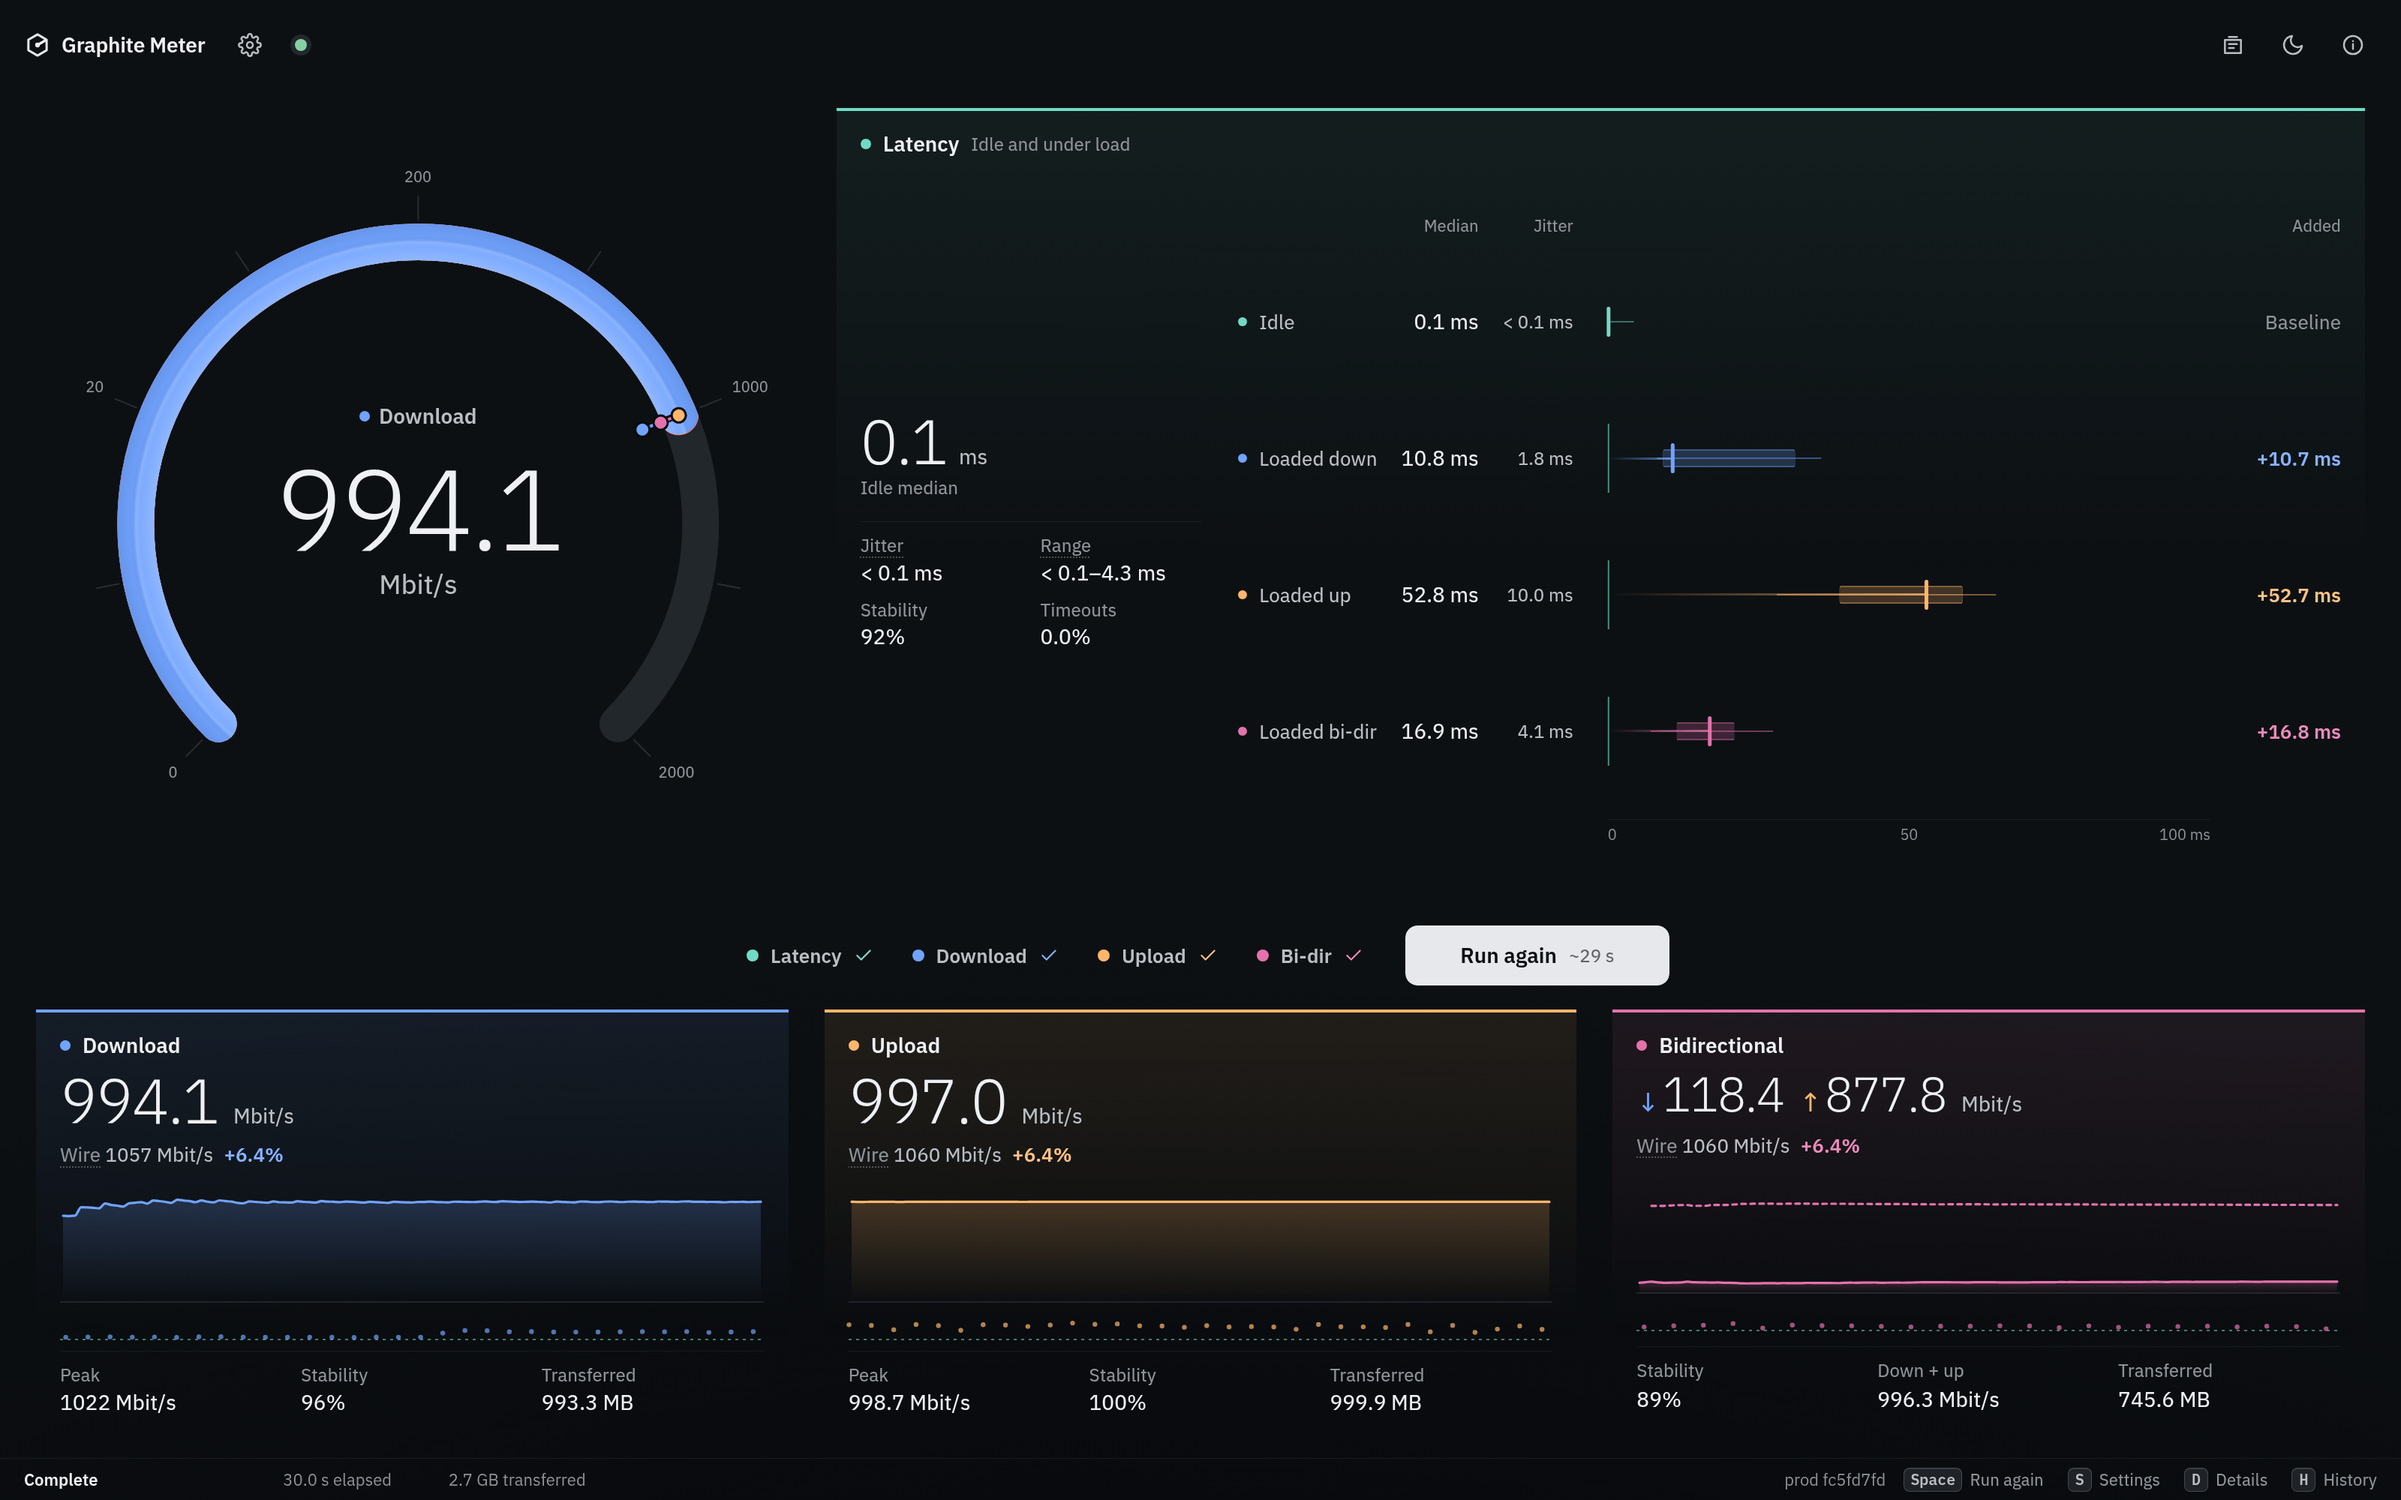
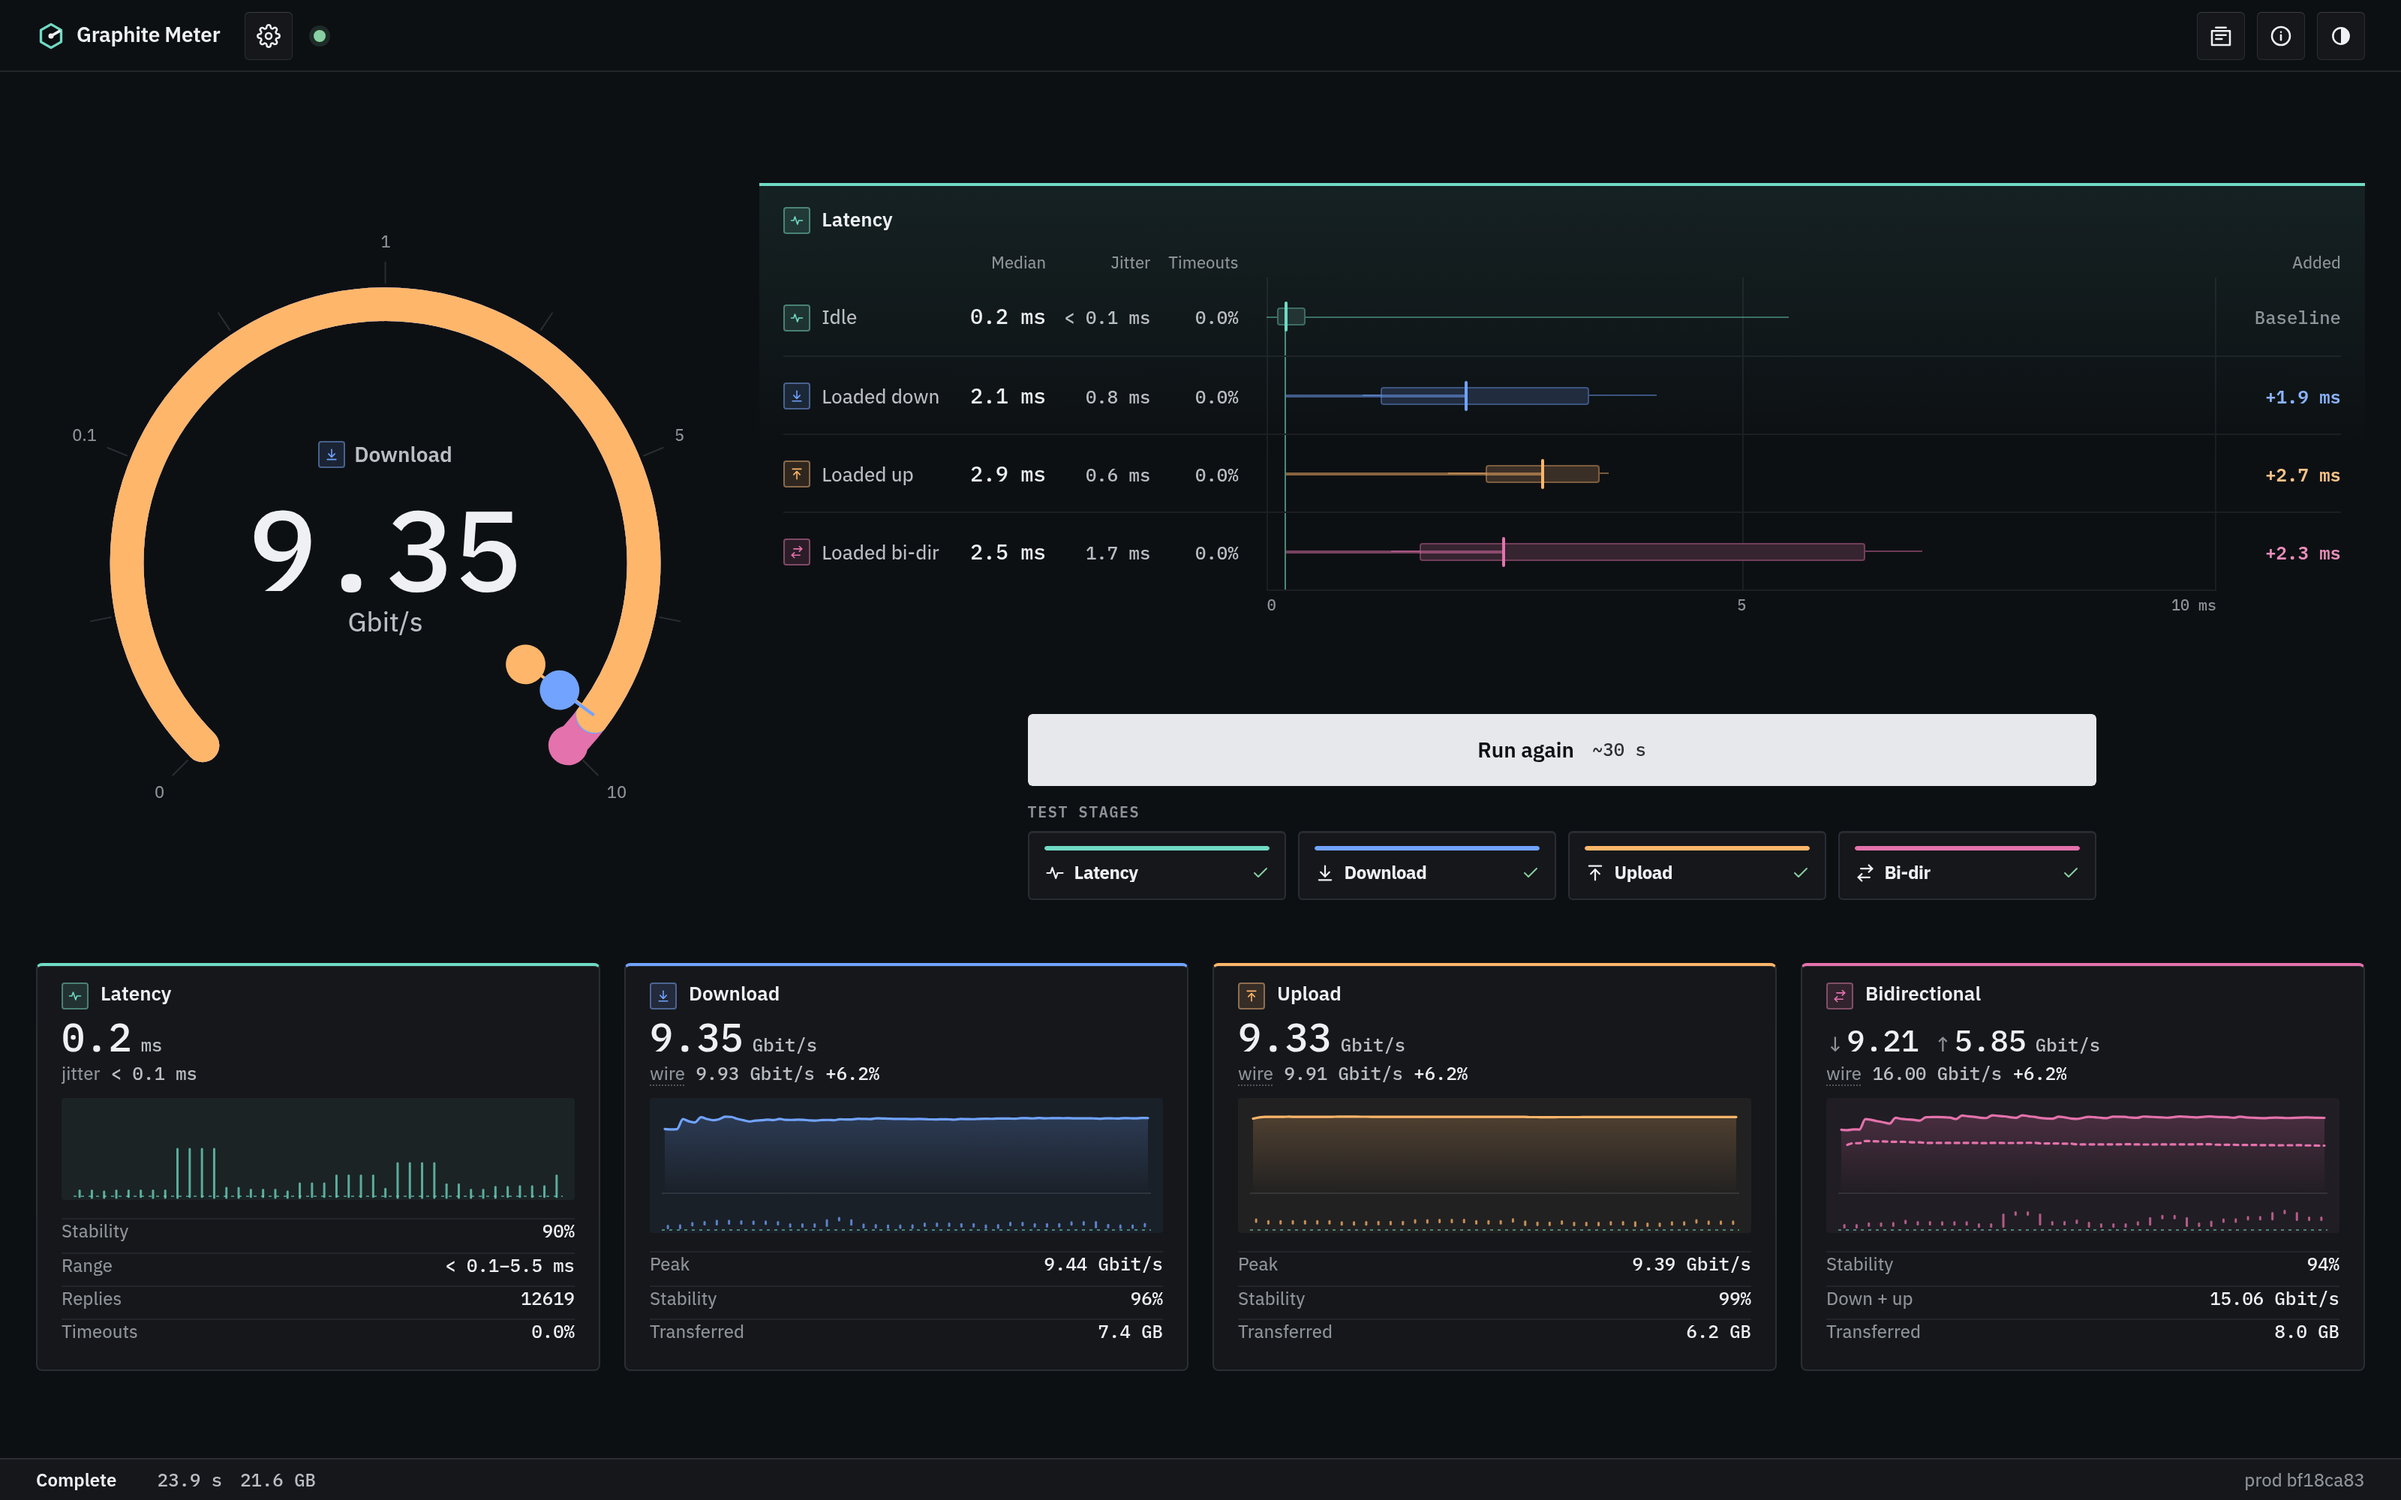
Show the redesigned console on a 10 GbE LAN in the README and gallery
The README and the screenshot gallery still showed the previous design,
with loopback figures of several Gbit/s and 0.4 ms latency that read as
a lab rather than a network. Every capture is retaken on the new console
as a real run through a link shaper: a wired 10 GbE LAN for the desktop
(about 9.4 Gbit/s each way, 0.2 ms idle, a couple of milliseconds added
under load), a Wi-Fi path for the phone, and three LAN servers for the
multi-server and Partial captures. The hero sets the completed desktop
result beside a phone measuring upload over Wi-Fi, side by side so the
phone hides no figure. The README describes the new console, and the
gallery states how its captures were made.

diff --git a/docs/SCREENSHOTS.md b/docs/SCREENSHOTS.md
@@ -2,15 +2,17 @@
 
 [Project overview](../README.md) · [Quick deployment](DEPLOYMENT.md#fast-local-deployment) · [What the numbers mean](MEASUREMENTS.md)
 
-Every capture is a real run against local servers over loopback held to 1 Gbit/s, so the rates show that limit on
-one machine, not a network or a benchmark.
+Every capture is a real run. The servers are local, each behind a link shaper that models a wired 10 GbE LAN
+(the phone reaches its server over a slower path that models Wi-Fi), so the figures are what the meter measured
+over those links, not a benchmark of a network. Bidirectional upload is held back by the capturing machine's CPU.
 
 ## The completed test
 
-Throughput and responsiveness share the screen: the dial, the latency card with idle and loaded box plots and what
-each load added, and one card per stage whose graph keeps the ramp-up and the latency under load.
+The dial carries the run's headline and every stage's result on one ring; the latency lanes set idle and loaded
+latency side by side with what each load added; one card per stage, under its key, keeps the stage's graph with
+the latency its load caused underneath.
 
-<img src="assets/desktop.png" alt="Completed desktop test with the dial, the latency card and download, upload and bidirectional cards" width="1080">
+<img src="assets/desktop.png" alt="Completed 10 GbE test: 9.35 Gbit/s down, 9.33 Gbit/s up, 0.2 ms idle latency, the latency lanes and one card per stage" width="1080">
 
 <img src="assets/light.png" alt="The same completed test in the light theme" width="1080">
 
@@ -20,7 +22,7 @@ Settings choose servers, connection paths, stage timings and display options. De
 the paths a run used, separating what the browser observed from what reached the server. On a wide desktop both dock
 beside the meter.
 
-<img src="assets/settings.png" alt="Settings docked beside the completed test, with the server checklist and connection paths" width="1080">
+<img src="assets/settings.png" alt="Settings docked beside the completed test, with connection paths and stage timings" width="1080">
 
 <img src="assets/endpoint.png" alt="Details beside the completed test: the tested server, the paths used and the protocol evidence from browser and server" width="1080">
 
@@ -29,12 +31,12 @@ beside the meter.
 ## Several servers
 
 Up to four servers share one run and each is probed for latency. One selector over the dial shows all servers or
-one; the stage cards, the latency card and Details follow it, and the latency card names its server. A server that
+one; the stage cards, the latency lanes and Details follow it, and the lanes name their server. A server that
 leaves marks its stage **Partial**, and the card names the reason.
 
-<img src="assets/multi-server.png" alt="A three-server run with the server selector and the latency card naming its server" width="1080">
+<img src="assets/multi-server.png" alt="Three servers on one LAN sharing a run, with the server selector over the dial" width="1080">
 
-<img src="assets/partial.png" alt="A three-server run where one server stopped delivering data during download, marked Partial" width="1080">
+<img src="assets/partial.png" alt="A three-server run where one server's connection was lost during download, marked Partial with the reason on the card" width="1080">
 
 ## History on your device
 
@@ -46,7 +48,7 @@ the live meter's stage and latency cards, its server selector and the evidence s
 ## Phone
 
 <p align="center">
-<img src="assets/mobile.png" alt="Phone view of the completed test" width="320">
+<img src="assets/mobile.png" alt="Phone view of a completed test over Wi-Fi" width="320">
 <img src="assets/mobile-history.png" alt="Phone view of a saved result" width="320">
 </p>
 
@@ -56,6 +58,9 @@ The TUI runs the same measurement against the same servers and ends with the res
 
 <img src="assets/tui.png" alt="Native terminal client after a complete latency, download and upload run" width="1080">
 
-Browser captures: production build, Chrome for Testing 151, 1600 × 1000 (workspace 1920 × 1080) and 430 × 932 at
-2× density, stages latency 4 s, download and upload 8 s, bidirectional 6 s. The terminal capture is the TUI's own
-120 × 40 screen rendered as text. To measure your own network, follow [deployment and configuration](DEPLOYMENT.md).
+Browser captures: production build, Chrome 154, 1600 × 1000 (workspace 1920 × 1080) and 430 × 932 at 2× density,
+stages latency 4 s, download and upload 8 s, bidirectional 6 s, a 1 s warmup, dial maximum 10 Gbit/s on desktop.
+Links: the desktop's path carries about 9.4 Gbit/s each way with 0.1 ms of one-way delay and a millisecond or two
+of queue; the phone's carries 1.65 Gbit/s down and 1.25 Gbit/s up with 1.5 ms of delay; the three servers of the
+multi-server run each have their own path, and together they fill a 10 GbE link. The terminal capture is the TUI's own 120 × 40 screen rendered as text.
+To measure your own network, follow [deployment and configuration](DEPLOYMENT.md).

diff --git a/README.md b/README.md
@@ -2,18 +2,18 @@
 
 # Graphite Meter
 
-**Self-hosted network testing for browsers and terminals.**
+**Self-hosted network testing for fast local networks, from any browser or terminal.**
 
-Measure download, upload, and latency before and during transfers.\
+Measure download, upload, and latency before and during transfers, up to multi-gigabit links.\
 One Go server, a responsive web interface, and a native terminal client.
 
 [![CI](https://github.com/zR-JB/graphite-meter/actions/workflows/ci.yml/badge.svg)](https://github.com/zR-JB/graphite-meter/actions/workflows/ci.yml) [![Release](https://img.shields.io/github/v/release/zR-JB/graphite-meter?sort=semver)](https://github.com/zR-JB/graphite-meter/releases) [![Container](https://img.shields.io/badge/container-ghcr.io%2Fzr--jb%2Fgraphite--meter-387d91)](https://github.com/zR-JB/graphite-meter/pkgs/container/graphite-meter) [![License](https://img.shields.io/badge/license-AGPL--3.0-blue)](LICENSE)
 
 [Quick start](#quick-start) · [Measurements](#what-you-can-measure) · [Browser](#browser-client) · [Terminal](#native-terminal-client) · [Documentation](#documentation)
 
-<img src="docs/assets/hero.png" alt="Graphite Meter completed results on desktop with an overlapping phone companion" width="1080">
+<img src="docs/assets/hero.png" alt="A completed 10 GbE test on desktop, 9.35 Gbit/s down and 9.33 Gbit/s up with 0.2 ms idle latency, beside a phone measuring upload over Wi-Fi" width="1080">
 
-<sub>Real runs against local servers · <a href="docs/SCREENSHOTS.md">screenshot gallery</a></sub>
+<sub>Real runs over a shaped 10 GbE LAN and a Wi-Fi path · <a href="docs/SCREENSHOTS.md">screenshot gallery</a></sub>
 
 </div>
 
@@ -56,17 +56,20 @@ for controlled performance testing.
 
 ## Browser client
 
-Run a test from a phone or desktop without installing a client. The dial, the latency card and one card
-per stage keep transfer speed and responsiveness visible together: each stage card graphs its rate with the
-latency its load added underneath.
+Run a test from a phone or desktop without installing a client. The dial carries the live rate and, once
+the run completes, every stage's result on one ring. Beside it, the latency lanes set idle and loaded latency
+side by side as box plots with what each load added. Under the run key, one card per stage keeps its graph,
+peak, stability and the latency its load caused, so transfer speed and responsiveness stay visible together.
+The run reads as one sequence: each stage's needle rises from zero, drains back as the next begins, and the
+result replays on the dial when the run ends.
 
-- **Flexible tests:** stage switches beside Start, duration presets or custom timings, automatic or fixed
+- **Flexible tests:** a key per stage over its card, duration presets or custom timings, automatic or fixed
   stream counts, and optional early completion when a stage stabilizes.
 - **Server selection:** a **Test servers** checklist in Settings, independent sign-in for protected
   peers, and one server selector over the results (all servers, or one) that the latency card and
   Details follow. Automatic paths resolve per server.
-- **Display choices:** light and dark themes, decimal or binary bits/bytes, gauge scaling, and graph
-  inspection by pointer, keyboard or touch, with reduced-motion support.
+- **Display choices:** light and dark themes, decimal or binary bits/bytes, a fixed or automatic dial
+  maximum, and graph inspection by pointer, keyboard or touch, with reduced-motion support.
 - **Phone layout:** one vertical reading order; the bottom status bar keeps the current stage and remaining
   time visible while you scroll.
 - **Wide desktop workspace:** open Settings and Details side by side with the meter. Resize
@@ -75,7 +78,7 @@ latency its load added underneath.
 - **Local history:** optionally save up to 2,000 results on your device, grouped by day. Inspect past runs
   while the live test continues, then return to it from the toolbar. History is not a server-side archive.
 
-<img src="docs/assets/workspace.png" alt="Graphite Meter with Settings and Details open beside the completed meter on a wide desktop" width="1080">
+<img src="docs/assets/workspace.png" alt="Settings and Details docked on both sides of a completed 10 GbE test on a wide desktop" width="1080">
 
 <p align="center"><sub>Resizable desktop panels · more in the <a href="docs/SCREENSHOTS.md">gallery</a></sub></p>
 
